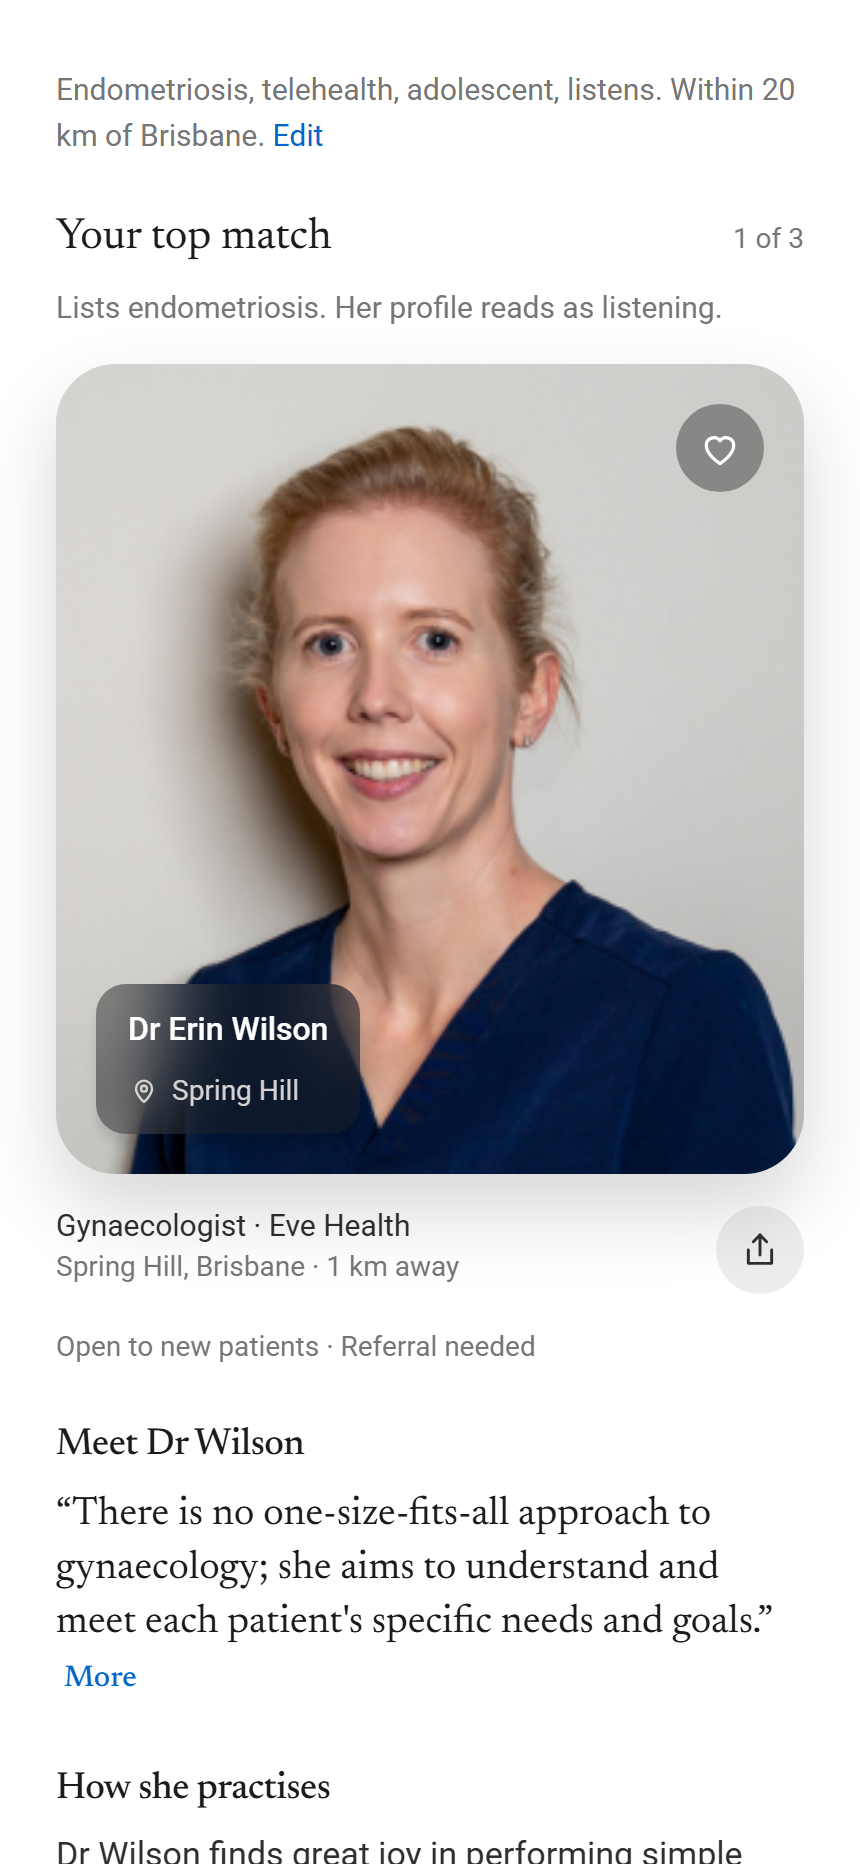
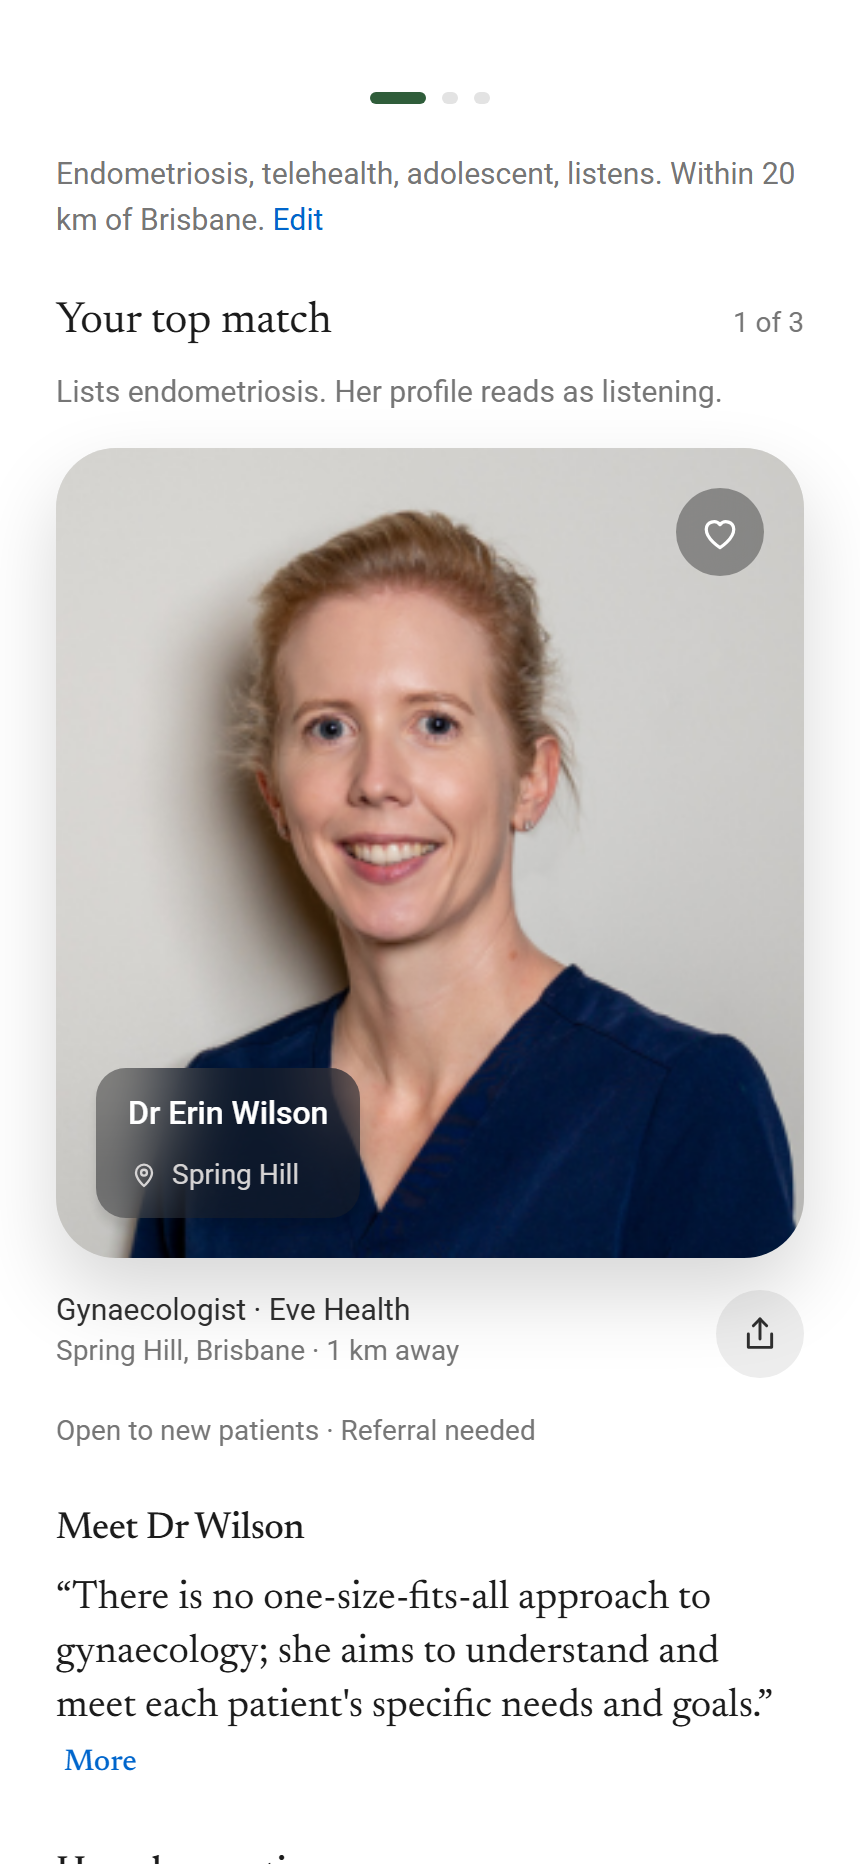
ui: closing card shows the three faces you met; footnote casing

Changed region(s): [[0.0605, 0.0311, 0.9372, 1.0], [0.786, 0.0311, 0.9372, 0.0933], [0.8465, 0.0933, 0.8767, 0.1245]]

diff --git a/src/ui/screens/patient-a/Matches.tsx b/src/ui/screens/patient-a/Matches.tsx
@@ -7,7 +7,7 @@ import { useRouter } from "next/navigation";
 import { useEffect, useRef, useState } from "react";
 import type { Card, SearchResponse } from "@/src/data/search-types";
 import { doctorHref } from "@/src/data/doctor-slug";
-import { Body, Cta, Divider, Gap, Row, Screen, TabBar } from "@/src/ui/kit";
+import { Avatar, Body, Cta, Divider, Gap, Row, Screen, TabBar } from "@/src/ui/kit";
 import { getCurrentRequest, getSavedIds, REQUEST_VERSION, setDraft, toggleSavedId, type StoredRequest } from "@/src/ui/store";
 import { ProfileBody } from "@/src/ui/screens/patient-b/Profile";
 import { ContactCta, ShareCircle } from "@/src/ui/screens/patient-b/ProfileClient";
@@ -172,6 +172,16 @@ export function Matches() {
         ) : null}
         {cards.length > 0 && shown >= cards.length ? (
           <div className="rise mt-12 rounded-[24px] px-6 py-8 text-center" style={{ background: "#f5f8f6" }}>
+            <div className="mb-5 flex justify-center -space-x-3">
+              {cards.map((c) =>
+                c.doctor.photo ? (
+                  // eslint-disable-next-line @next/next/no-img-element
+                  <img key={c.doctor.id} src={c.doctor.photo.url} alt={c.doctor.name.display} referrerPolicy="no-referrer" className="size-14 rounded-full border-[3px] border-white object-cover object-top shadow-[0_4px_10px_rgba(0,0,0,0.12)]" style={{ background: "#e9e9e9" }} />
+                ) : (
+                  <span key={c.doctor.id} className="rounded-full border-[3px] border-white"><Avatar name={c.doctor.name.display} size={50} /></span>
+                ),
+              )}
+            </div>
             <p className="font-display text-[24px] leading-tight text-ink">That is your {cards.length === 1 ? "match" : cards.length === 2 ? "two" : "three"}.</p>
             <p className="mt-2 text-[15px] leading-[1.5] text-grey">Wattle shows three at a time so each one gets a proper read. Search again to meet different doctors.</p>
             <div className="mt-6">
@@ -183,7 +193,7 @@ export function Matches() {
       {res && cards.length > 0 ? (
         <>
           <Gap h={16} />
-          <p className="caption text-[13px] leading-normal text-grey">{res.orderNote}</p>
+          <p className="caption text-[13px] leading-normal text-grey">{res.orderNote.replace(/ and ([A-Z])(?=[a-z])/g, (_m, c: string) => ` and ${c.toLowerCase()}`)}</p>
         </>
       ) : null}
       <TabBar active="/" />
